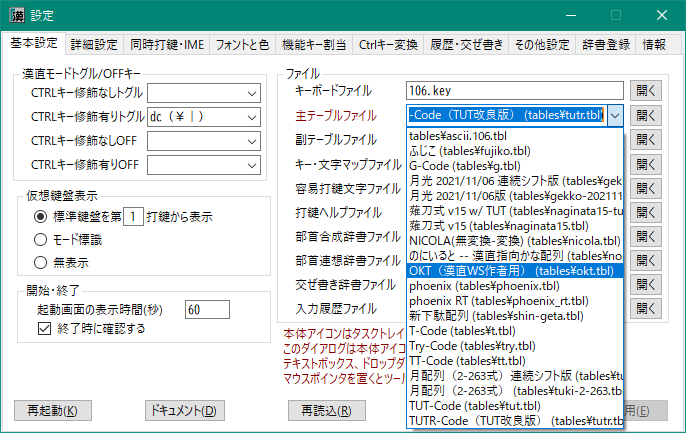
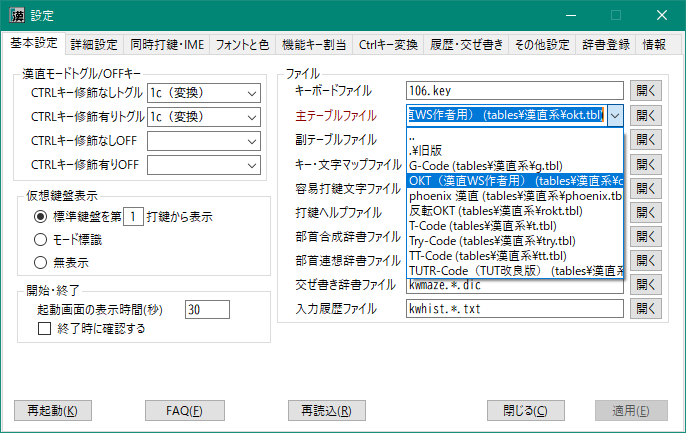
Update Manual and FAQ

diff --git a/FAQ/FAQ-基本.md b/FAQ/FAQ-基本.md
@@ -17,6 +17,7 @@
     - [どんな配列が使えますか](#どんな配列が使えますか)
     - [配列の選択方法](#配列の選択方法)
     - [選択した配列(テーブルファイル)の内容を確認したい](#選択した配列テーブルファイルの内容を確認したい)
+    - [自分でサブフォルダーを作成したい](#自分でサブフォルダーを作成したい)
 - [IME連携](#IME連携)
     - [IME のON/OFFに合わせてかな配列入力モードもON/OFFしたい](#IME-のONOFFに合わせてかな配列入力モードもONOFFしたい)
     - [IME にひらがなが送られません](#IME-にひらがなが送られません)
@@ -120,17 +121,35 @@ X座標、Y座標を適当な値に変更して「適用」をクリックしま
 |かわせみ|かな配列|同時打鍵を取り入れ、行段系ながら単打率高し。覚えやすさと効率のバランス|
 |薙刀式|かな配列|同時打鍵、SandSを使用し、1モーラを1アクションで。清濁同置、アルペジオ重視|
 |NICOLA|かな配列|本家親指シフト|
+|phoenix RT|かな配列|phoenix のかな部分を取り出し、いくつかの操作を追加したもの|
 |新下駄|かな配列|同時打鍵を駆使し、1モーラを1アクションで。かな配列では最速候補の一つ|
 |月2-263|かな配列|月系標準配列の一つ。同時打鍵不使用なのでGoogle日本語入力でも利用可|
-|ふじこ|ネタ|8キー同時打鍵デモ用のネタ配列。ASDFJKL; を同時に打鍵すると…|
+|ゆきね|かな配列|薙刀式をベースにして初心者にも使いやすくするような改良を加えた|
+|ローマ字|その他|書き換えシステムのデモ用配列。実用性はあまりない|
+|ふじこ|その他|8キー同時打鍵デモ用のネタ配列。ASDFJKL; を同時に打鍵すると…|
 
 ### 配列の選択方法
 [設定ダイアログ](#設定ダイアログ)を開き、
 「基本設定」>「ファイル」>「主テーブルファイル」のドロップダウンを開きます。
-`tables` というフォルダーに格納されているテーブルファイルの一覧が表示されるので、
+現在選択されているフォルダーに格納されているテーブルファイルの一覧が表示されるので、
 そこから利用したい配列(テーブルファイル)を選択してください。
 
 ![Select Table File](image/select-table-file.png)
+
+`..` は一つ上のフォルダーを表しています。
+`.￥` で始まっているものはサブフォルダーを表しています。
+
+下図は `..` を選択して一つ上のフォルダーである `tables` に移動してその一覧を表示したものです。
+`tables` はテーブルファイルを格納している最上位フォルダーとなります。
+
+![Select Table File 2](image/select-table-file-2.png)
+
+かな配列を選択したい場合は「.\\かな系」を選択してください。
+
+![Select Table File Kana](image/select-table-file-kana.png)
+
+同系列の古いバージョンは「旧版」フォルダーに格納してあります。
+また、ある配列のシフト方法を変更したりしたものは「変種」フォルダーに格納しました。
 
 ### 選択した配列(テーブルファイル)の内容を確認したい
 テーブルファイル名を格納しているコンボボックスの右にある「開く」ボタンをクリックします。
@@ -148,6 +167,12 @@ X座標、Y座標を適当な値に変更して「適用」をクリックしま
 その場合は、利用者自身でエディタ等でそのサブテーブルファイルを開いてください。
 なお「サクラエディタ」では、上記の `"subtables/okt-kanji.tbl"` のところに
 テキストカーソルを置いて F12 を押すと、カーソル位置のファイルを開いてくれます。
+
+### 自分でサブフォルダーを作成したい
+お好きな名前のサブフォルダーを作成してください。(ただし、空白文字は含めないほうが良いでしょう)
+
+なお、`_` または `.` で始まる名前の場合は「隠しフォルダー」になり、
+ファイル選択のドロップダウンには表示されなくなります。
 
 ## IME連携
 ### IME のON/OFFに合わせてかな配列入力モードもON/OFFしたい

diff --git a/MANUAL.md b/MANUAL.md
@@ -15,8 +15,6 @@ Windows 用の漢字直接入力ツールです。
 - [元祖漢直窓から受け継いだ機能](#元祖漢直窓から受け継いだ機能)
 - [KanchokuWS で搭載された新機能](#KanchokuWS-で搭載された新機能)
 - [起動](#起動)
-    - [起動時に警告が表示される場合](#起動時に警告が表示される場合)
-    - [kw-uni.dll が起動できない場合](#kw-unidll-が起動できない場合)
     - [起動画面と設定ダイアログ](#起動画面と設定ダイアログ)
         - [起動画面の非表示](#起動画面の非表示)
 - [漢直モードに入る](#漢直モードに入る)
@@ -112,7 +110,7 @@ Windows 用の漢字直接入力ツールです。
         - [特殊キーに対する単打設定](#特殊キーに対する単打設定)
         - [機能名一覧](#機能名一覧)
     - [Google 日本語入力にインポートできるローマ字テーブルの出力](#Google-日本語入力にインポートできるローマ字テーブルの出力)
-    - [eelll/JS にインポートできるテーブルファイルの出力](#eelll/JS-にインポートできるテーブルファイルの出力)
+    - [eelll/JS にインポートできるテーブルファイルの出力](#eelllJS-にインポートできるテーブルファイルの出力)
     - [他のキー変換ツールとの競合解消](#他のキー変換ツールとの競合解消)
     - [直前打鍵位置の表示](#直前打鍵位置の表示)
     - [KeyboardHookMonitor](#KeyboardHookMonitor)

diff --git a/FAQ/FAQ-キーアサイン.md b/FAQ/FAQ-キーアサイン.md
@@ -13,7 +13,7 @@
     - [Ctrl修飾とShift修飾](#Ctrl修飾とShift修飾)
     - [3項演算記述](#3項演算記述)
     - [使用できる機能キーの名前](#使用できる機能キーの名前)
-
+    - [任意の仮想キーコードの使用](#任意の仮想キーコードの使用)
 
 ## 機能キーを修飾キーとして使う(拡張修飾キー)
 Space(SandS有効時)、CapsLock, 英数, 無変換, 変換, 右シフト, 左右コントロールの8つの機能キーを修飾キーとして使用し、
